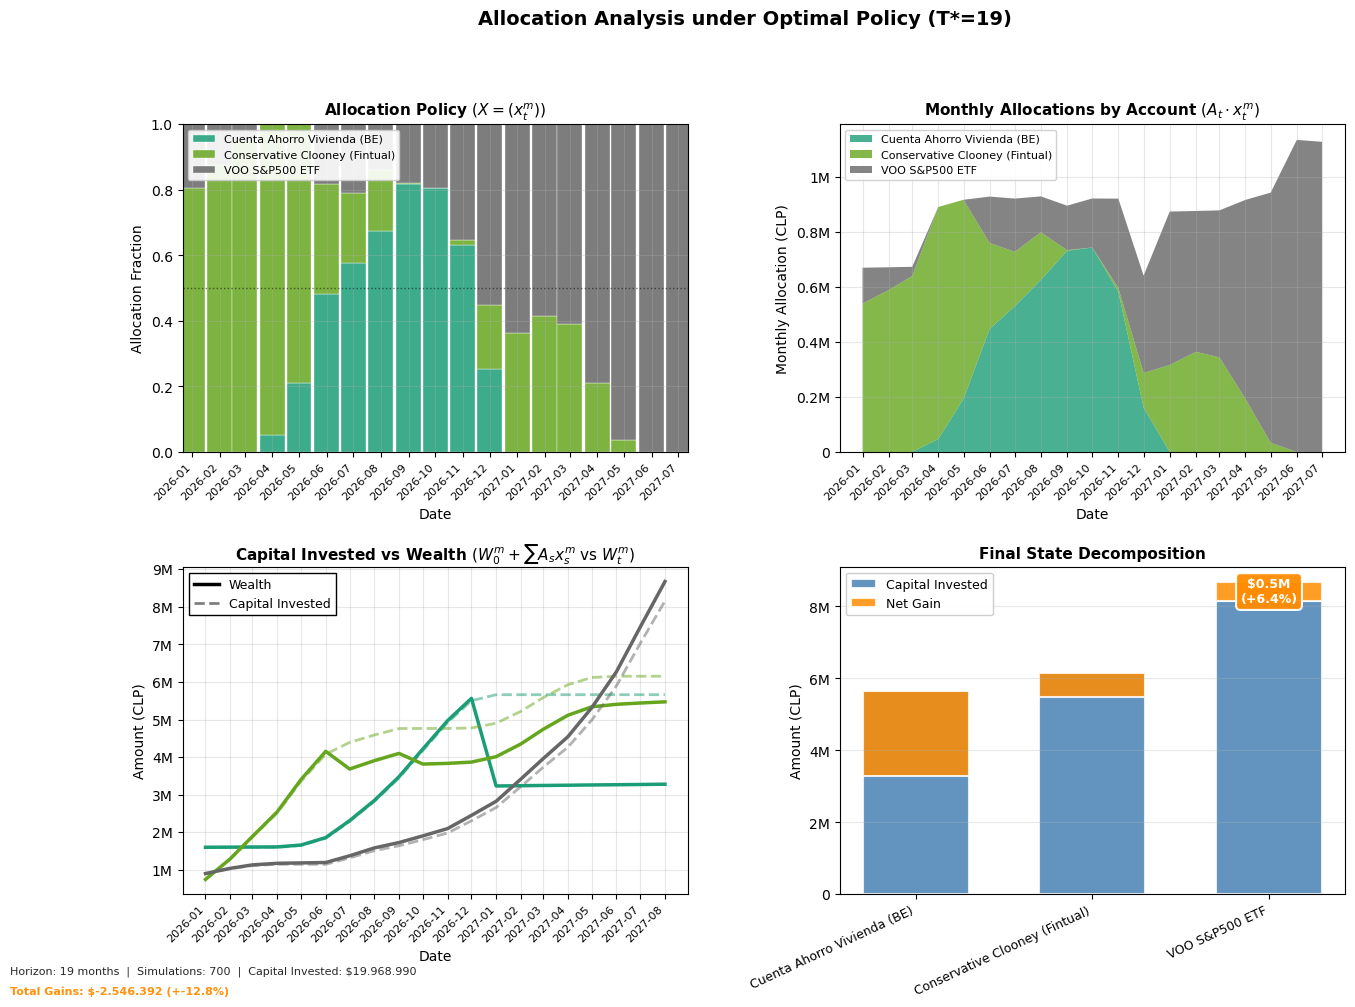
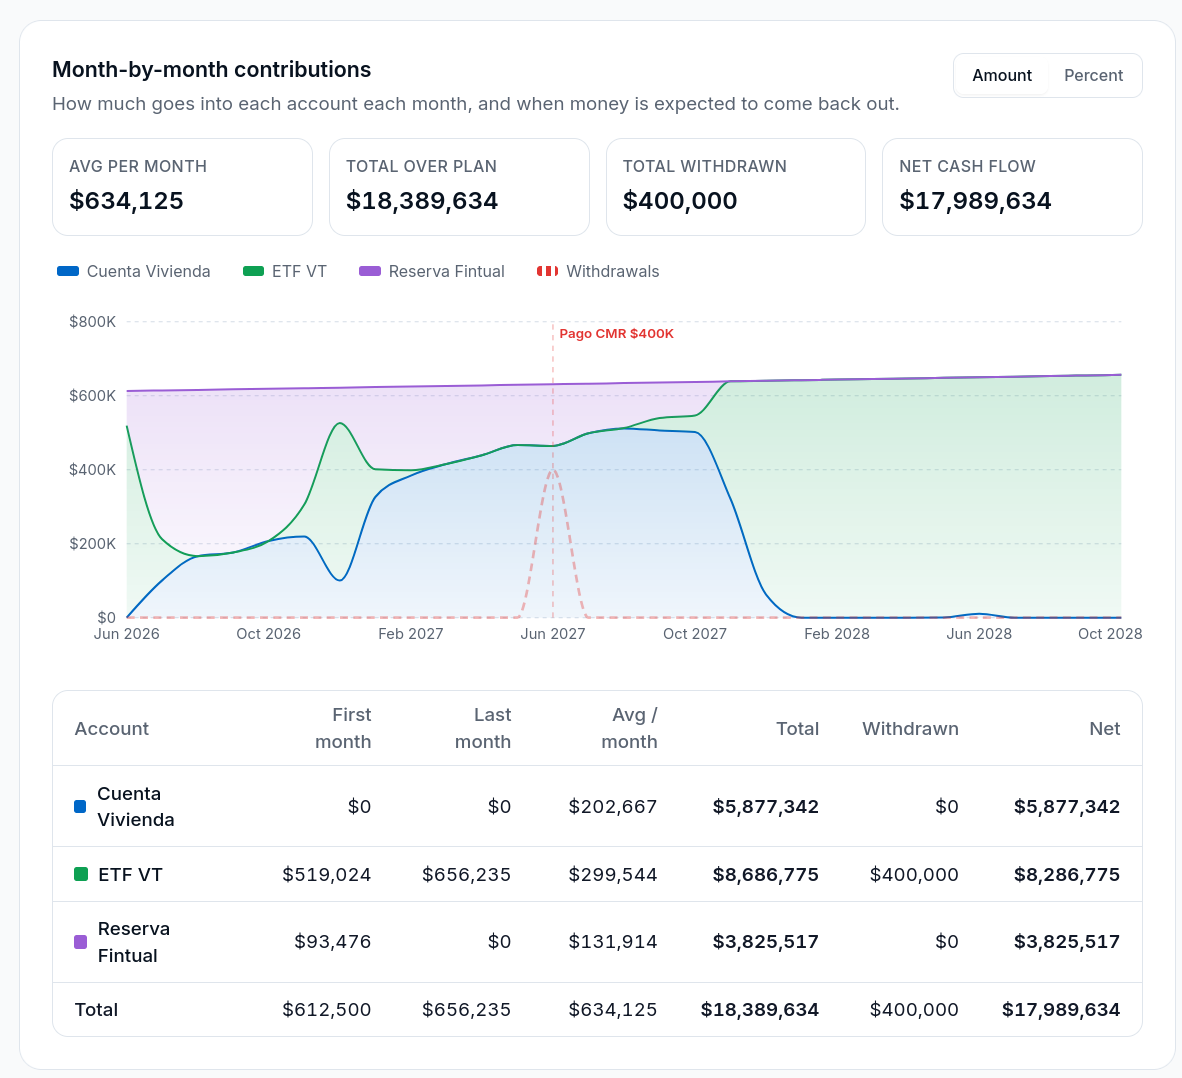
docs(readme): update readme

diff --git a/README.md b/README.md
@@ -59,6 +59,9 @@ where $F_{s,t}^m = \prod_{\tau=s+1}^{t}(1 + R_\tau^m)$ are stochastic accumulati
 ![Wealth Dynamics](docs/images/wealth_dynamics.png)
 *Monte Carlo wealth trajectories under the optimal allocation policy $X^\*$*
 
+![Wealth Dynamics](docs/images/allocation_analysis.png)
+*Optimal allocation policy $X^\*$*
+
 ---
 
 ## Quick Start